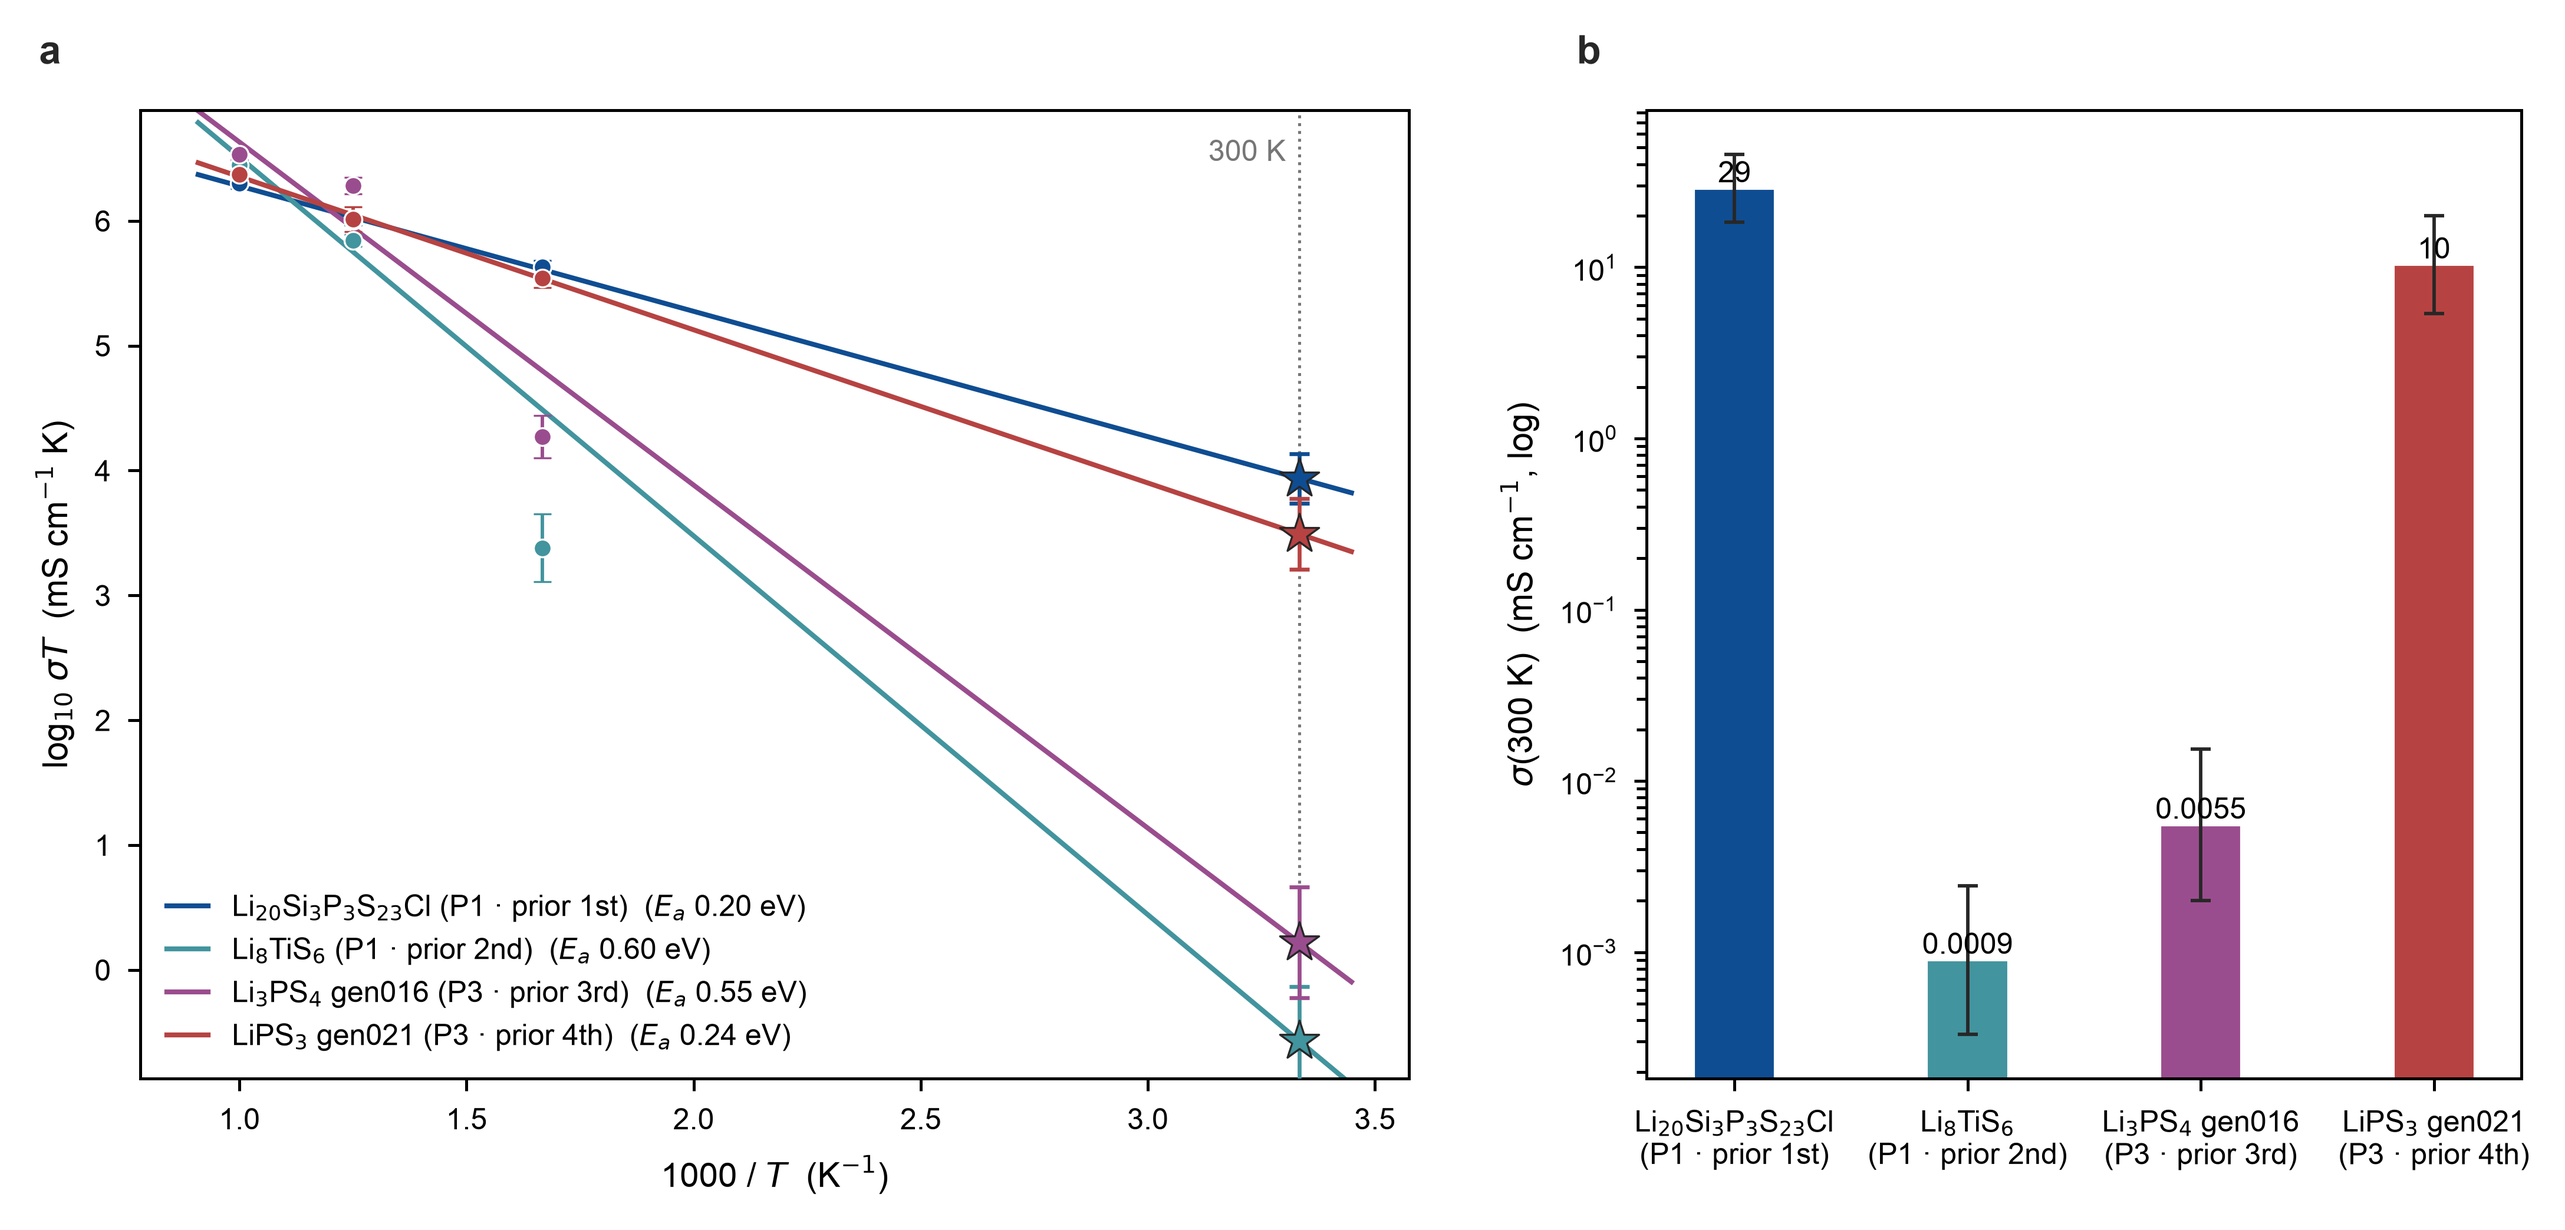
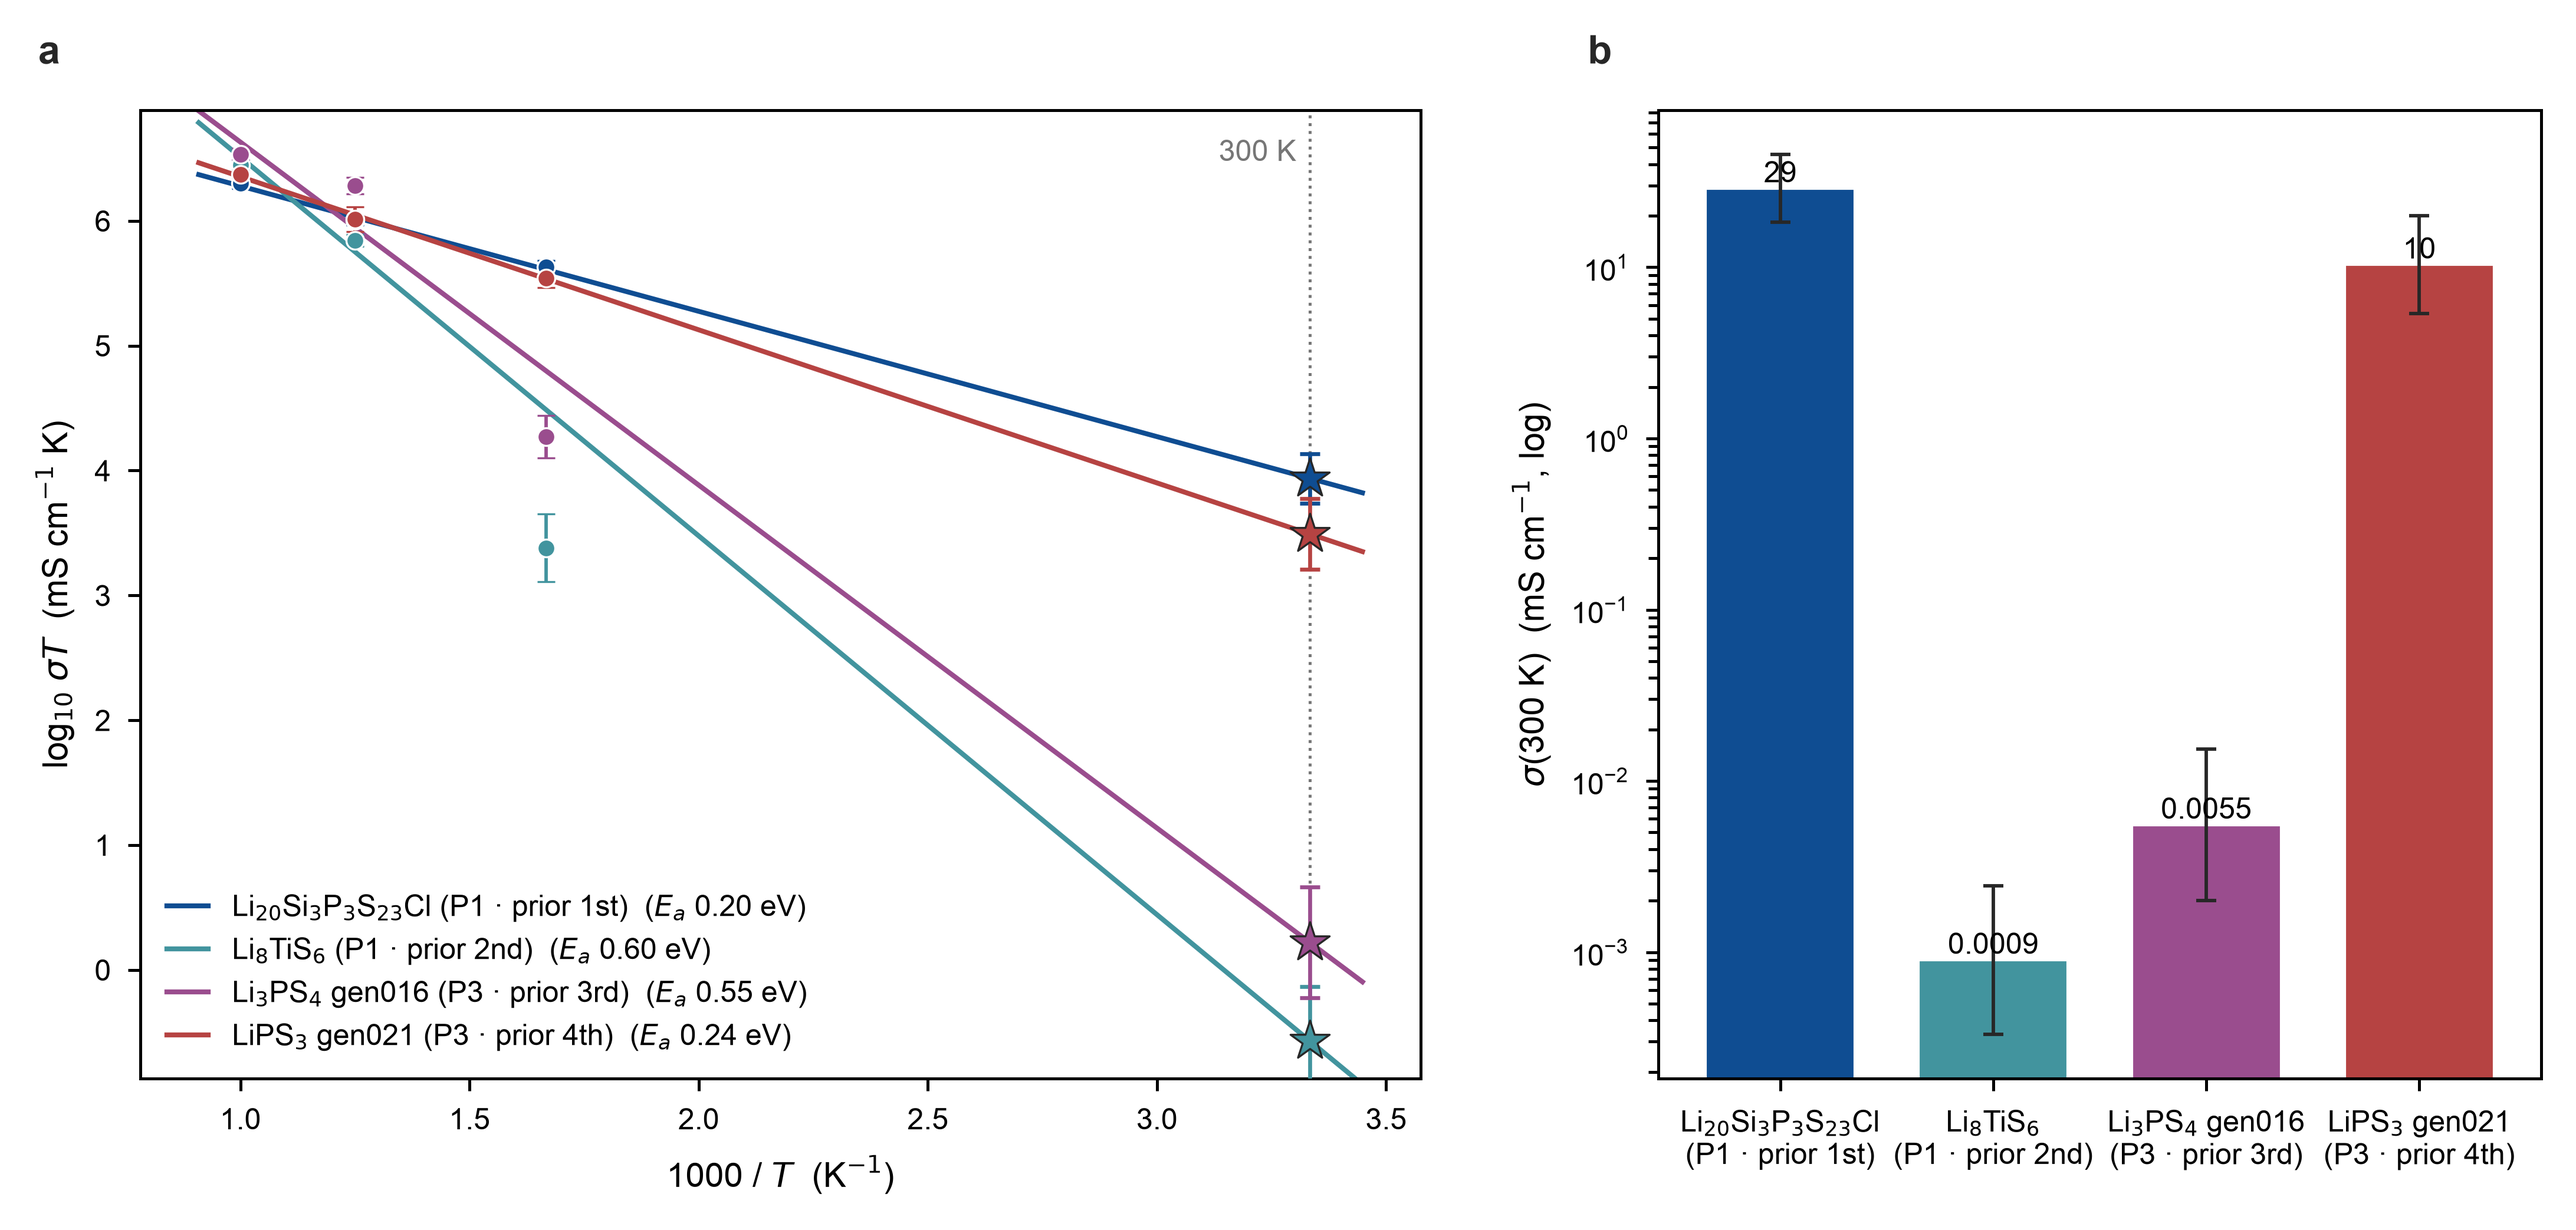
Double the merged-sigma bar width (0.35 -> 0.70)
The overlay layout's bar panel is single-column-ish; 0.35 read too thin
there. Both overlay figures (dope, leads) re-rendered; numbers unchanged.

diff --git a/03_analyze_transport.py b/03_analyze_transport.py
@@ -243,8 +243,7 @@ def _merged_sigma_ax(ax, groups):
                 colors.append(_SERIES_RAMP[i % len(_SERIES_RAMP)])
     x = np.arange(len(labels))
     yerr = [err_lo, err_hi] if any(err_lo) or any(err_hi) else None
-    # keep bars narrow -- a fat bar carries no extra information
-    ax.bar(x, vals, color=colors, edgecolor="white", linewidth=0.5, width=0.35,
+    ax.bar(x, vals, color=colors, edgecolor="white", linewidth=0.5, width=0.70,
            yerr=yerr, error_kw=dict(elinewidth=0.7, capsize=2, capthick=0.7,
                                     ecolor=ps.PALETTE["neutral_black"]))
     ax.margins(x=0.06)
